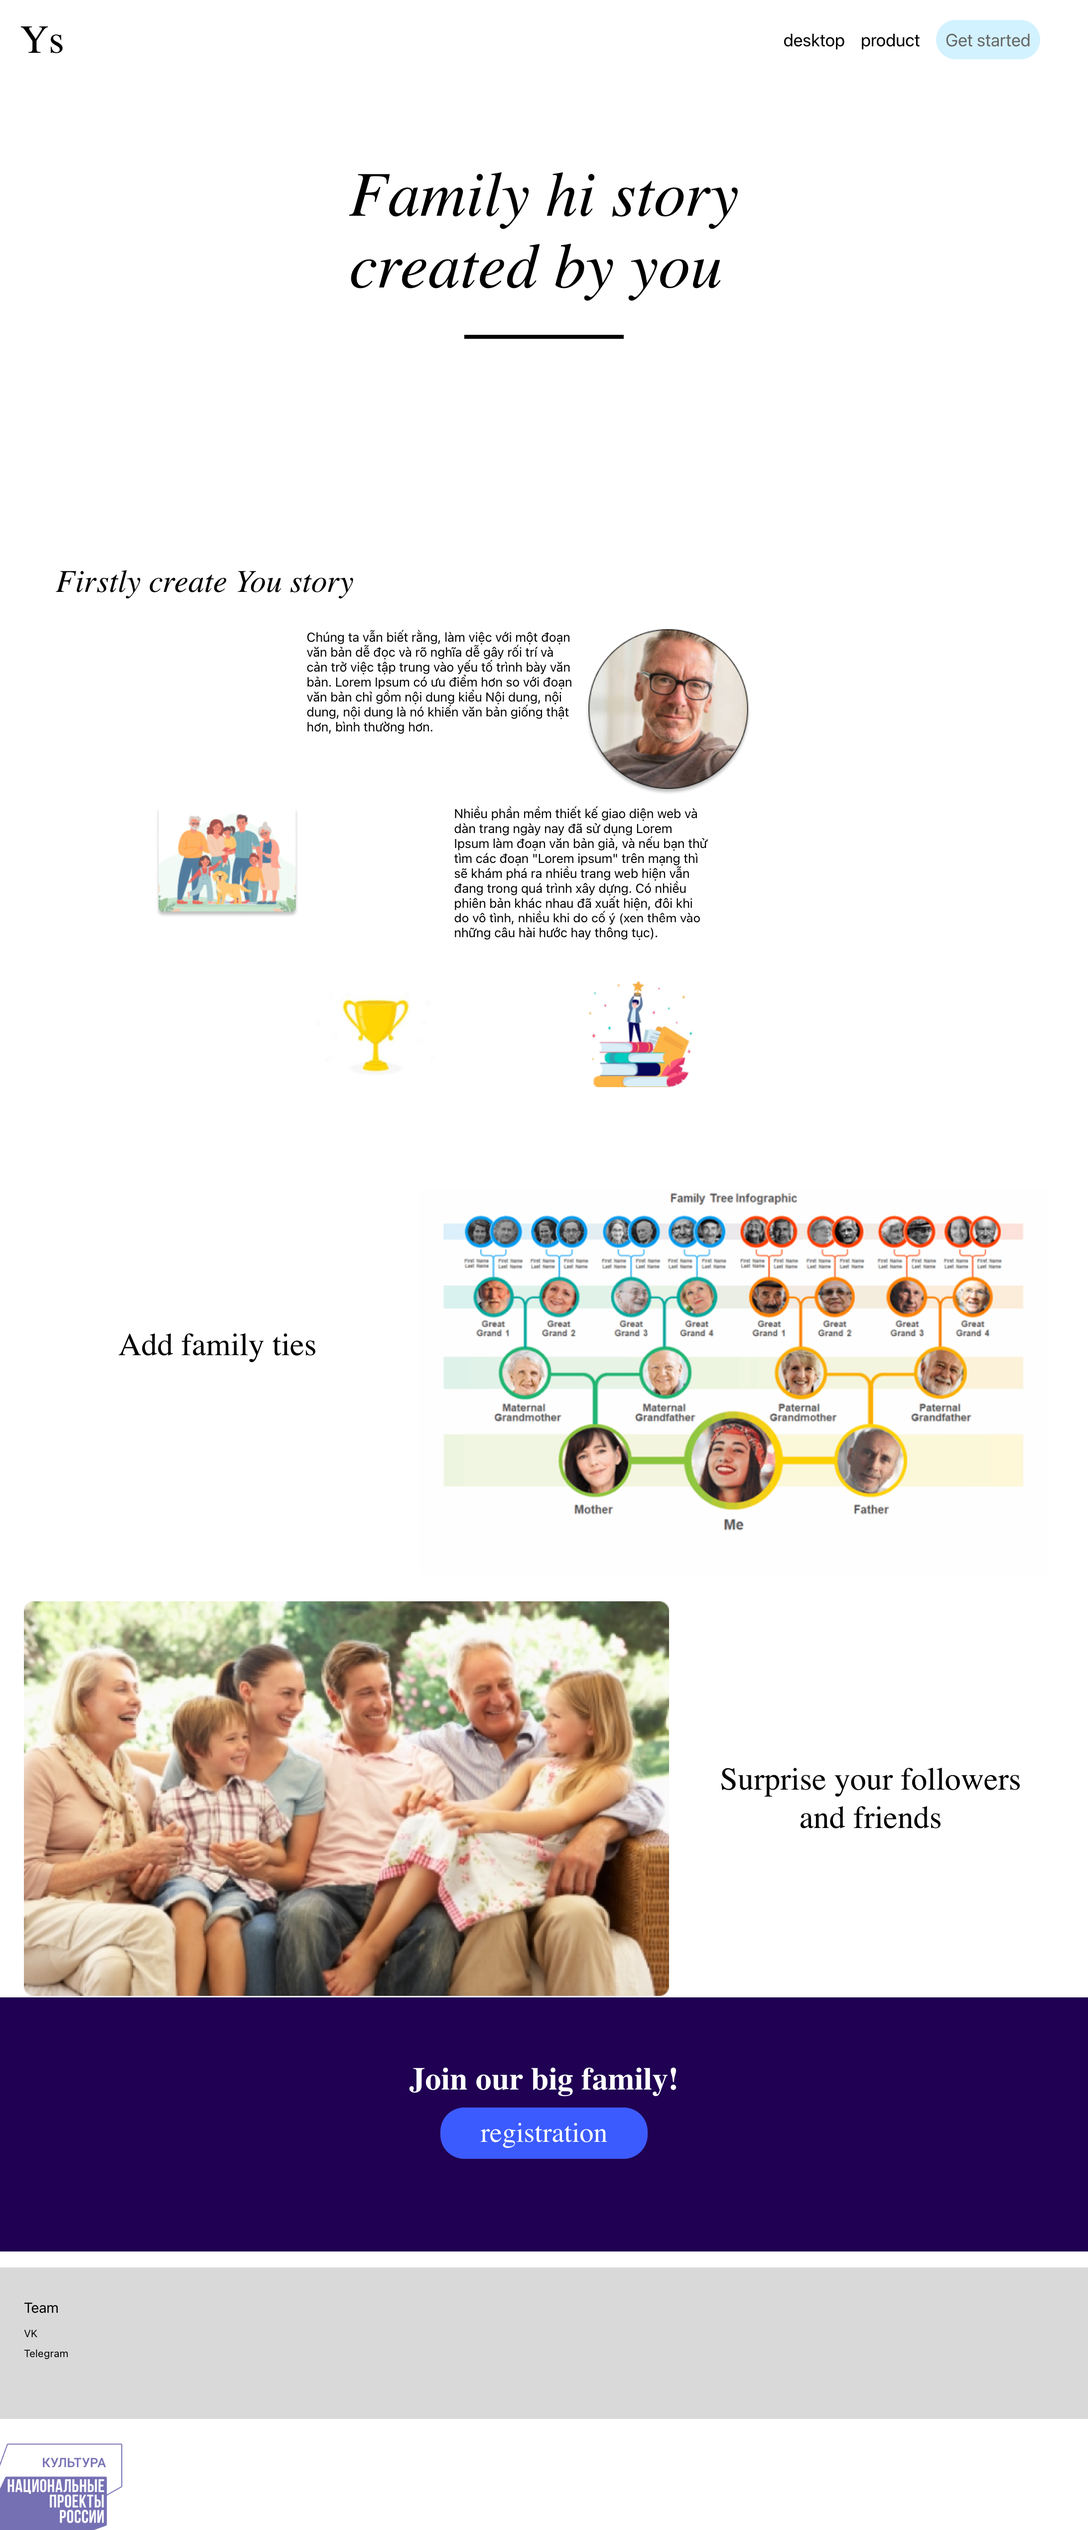
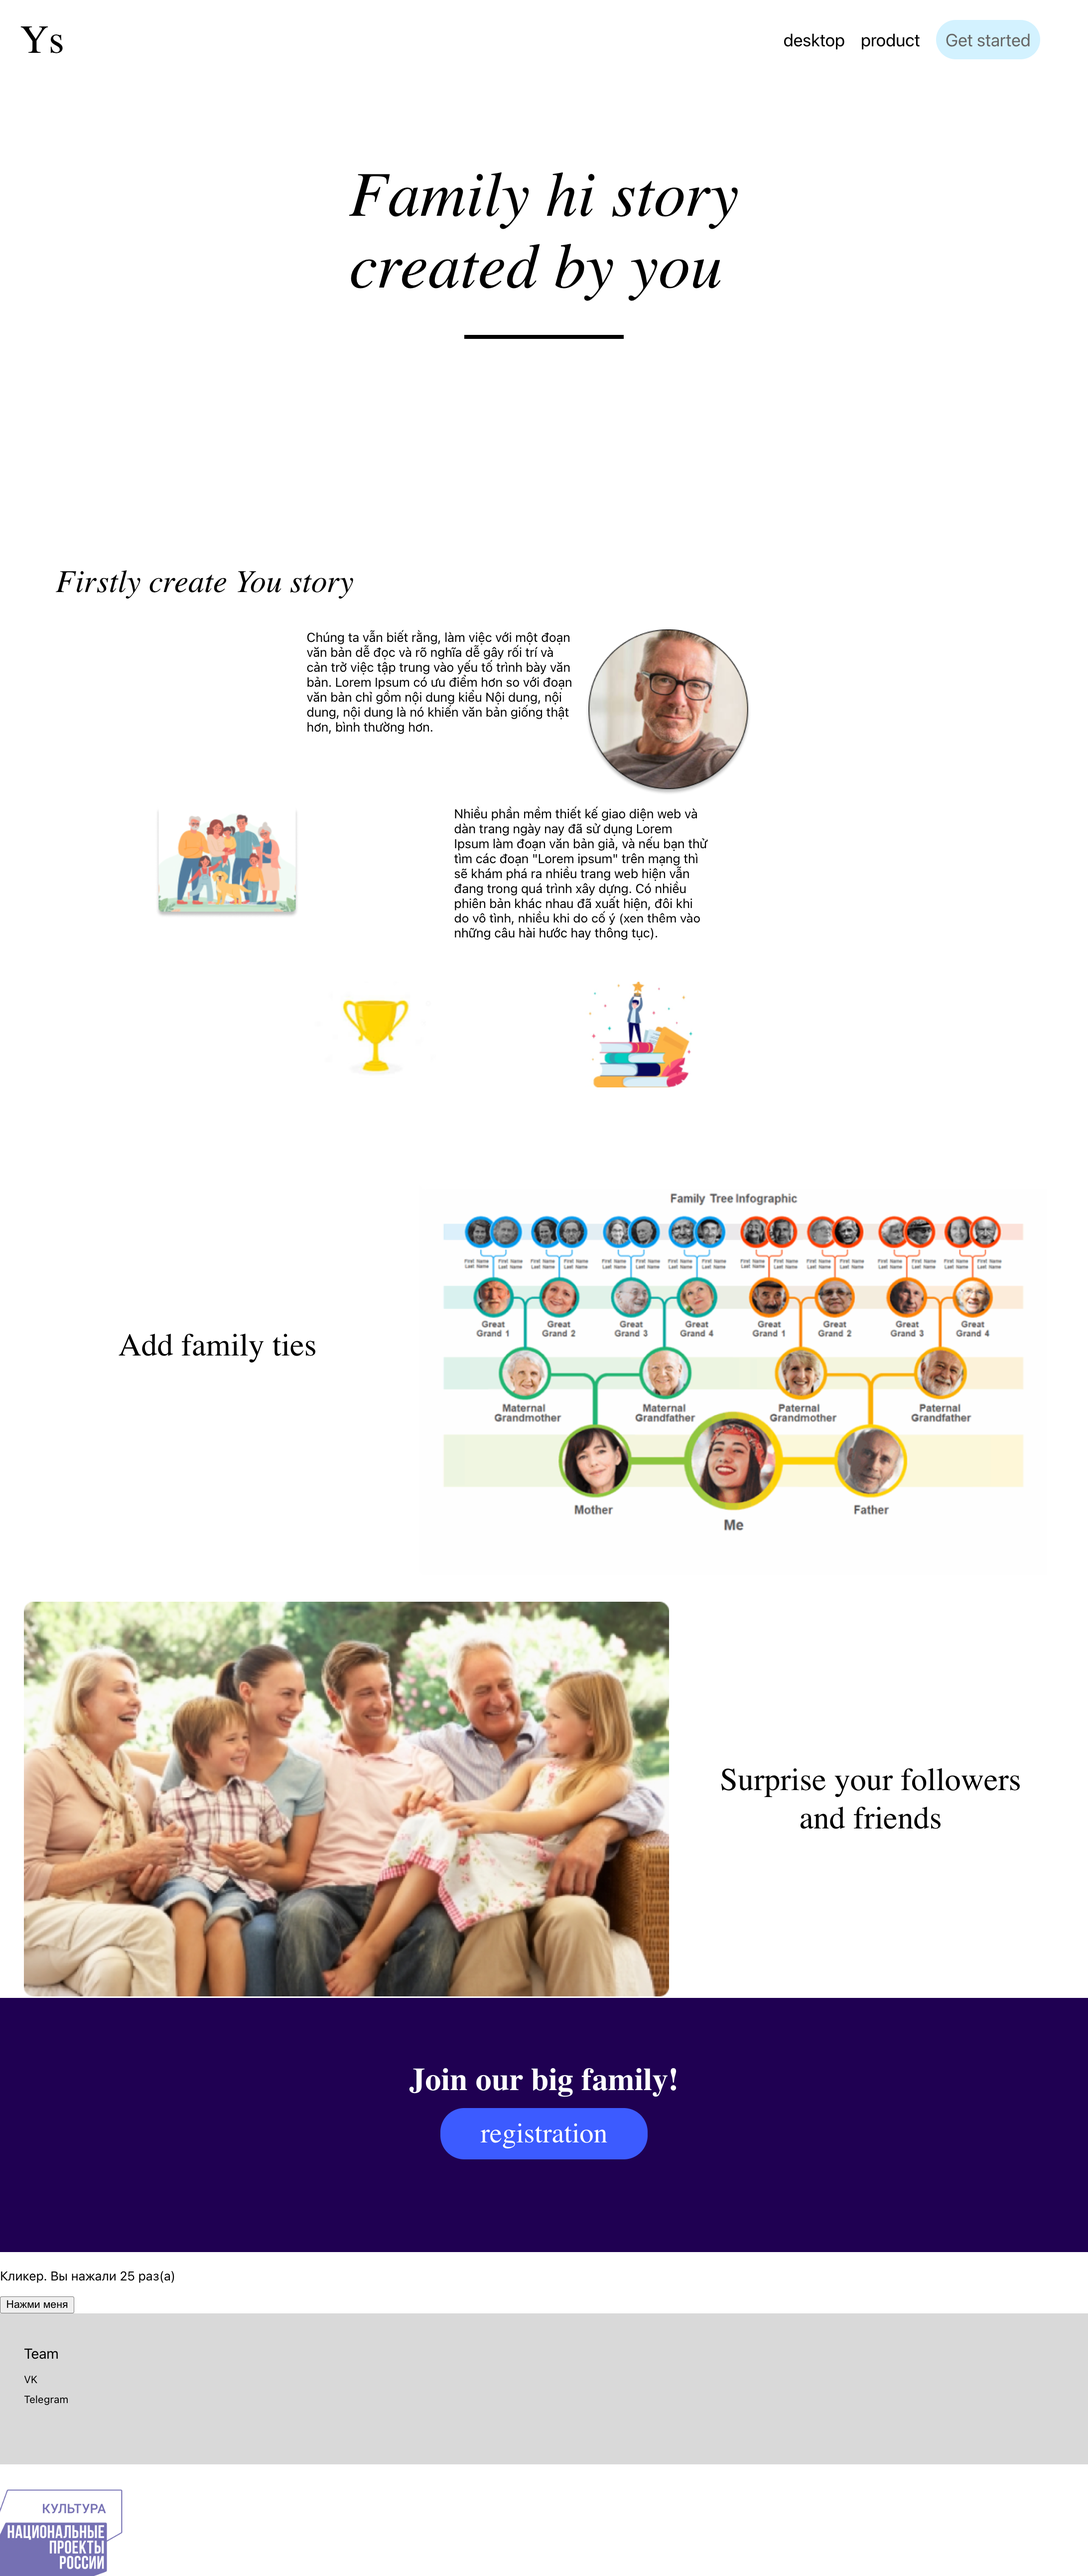
add useState Clicker

diff --git a/front/src/components/Main/Main.js b/front/src/components/Main/Main.js
@@ -1,8 +1,10 @@
 import {TextBlock} from "../Auxiliary/TextBlock";
 import {main_texts} from "./main-texts"
 import {LinkBlock} from "../Auxiliary/LinkBlock";
-
+import React from 'react';
 export function Main() {
+    const [countClicker, setCountClicker] = React.useState(0);
+
     return (
         <div className="main-aside">
             <div className="main-part-1">
@@ -31,6 +33,12 @@ export function Main() {
             <div className="main-part-5">
                 <TextBlock text={main_texts["join_to_us"]} className="main-part-5-txt1"/>
                 <LinkBlock elements='registration' to='/authorization' className='main-part-5-auth'/>
+            </div>
+            <div>
+                <p>Кликер. Вы нажали {countClicker} раз(а)</p>
+                <button onClick={() => setCountClicker(countClicker + 1)}>
+                    Нажми меня
+                </button>
             </div>
         </div>
     );
